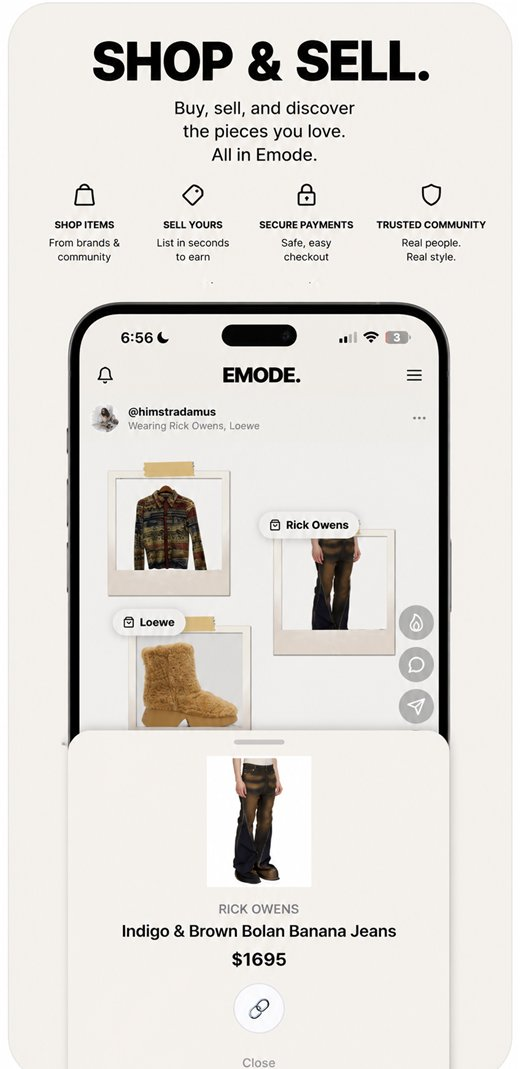
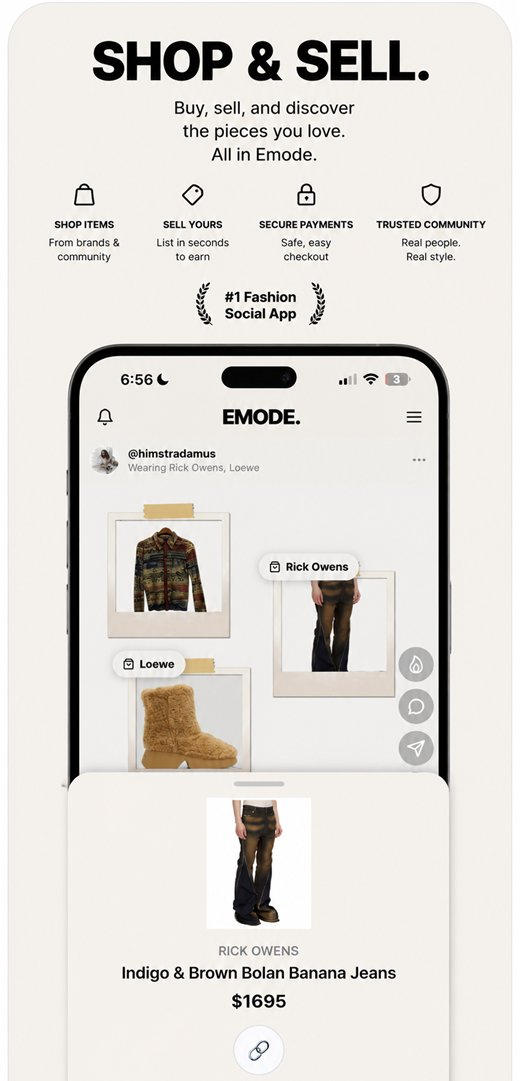
fix: badge restored, screens one height, tilt and hover back, no white hairline
Badge back in. The reading that "#1" claims being first to do this rather than
biggest is the author's call, and the images are used as supplied - which also
removes the laurel remnants, since there is no longer any surgery to leave them.

Height fixed at the source rather than by cropping around a cut. Three screens
scale to 1124px at a common width and one to 1081, because the sources differ in
aspect. All four now render at 520x1081, top-anchored, so the trim comes off the
phone bezel rather than a headline.

The white hairline is gone. These are already cards on a cream ground, so a
border around each read as a rendering artefact rather than a frame; depth comes
from the shadow.

Tilt and hover restored - alternating rotations that straighten and lift on
hover, with vertical padding on the scroller so the rotated corners are not
clipped by it.

diff --git a/apps/web/components/ConsumerApp.tsx b/apps/web/components/ConsumerApp.tsx
@@ -16,10 +16,10 @@ import { Sparkles, Users, Tag, Scissors, ArrowRight, Check } from 'lucide-react'
  */
 
 const SCREENS = [
-    { src: '/app/01-feed.jpg', alt: 'The emode feed: an outfit post tagged with the brands worn' },
-    { src: '/app/02-tryon.jpg', alt: 'AI try-on: two secondhand items rendered onto a person as one outfit' },
-    { src: '/app/03-shop.jpg', alt: 'Tapping a post reveals the exact pieces in it, with prices and links' },
-    { src: '/app/04-sell.jpg', alt: 'A profile selling listings directly, with sizes, condition and prices' },
+    { src: '/app/01-feed.jpg', alt: 'The emode feed: an outfit post tagged with the brands worn', tilt: '-rotate-2' },
+    { src: '/app/02-tryon.jpg', alt: 'AI try-on: two secondhand items rendered onto a person as one outfit', tilt: 'rotate-1' },
+    { src: '/app/03-shop.jpg', alt: 'Tapping a post reveals the exact pieces in it, with prices and links', tilt: '-rotate-1' },
+    { src: '/app/04-sell.jpg', alt: 'A profile selling listings directly, with sizes, condition and prices', tilt: 'rotate-2' },
 ];
 
 const PILLARS = [
@@ -131,11 +131,13 @@ export function ConsumerApp() {
                     and describing it in prose to someone who has not seen it asks
                     them to take the whole thing on faith.
 
-                    No captions here: these carry their own headlines, and a second
-                    label underneath would either repeat them or argue with them.
-                    Horizontal scroll on narrow screens rather than a 4-up grid
-                    that crushes each phone to a thumbnail. */}
-                <div className="-mx-6 px-6 mb-20 overflow-x-auto">
+                    No border: these are already cards on a cream ground, and a
+                    white hairline around each one reads as a rendering artefact
+                    rather than a frame. Depth comes from the shadow.
+
+                    Tilted, and straightening on hover. Vertical padding on the
+                    scroller so the rotated corners are not clipped by it. */}
+                <div className="-mx-6 px-6 py-6 mb-16 overflow-x-auto">
                     <div className="flex gap-5 min-w-max sm:min-w-0 sm:grid sm:grid-cols-2 lg:grid-cols-4">
                         {SCREENS.map((s) => (
                             /* eslint-disable-next-line @next/next/no-img-element */
@@ -144,7 +146,7 @@ export function ConsumerApp() {
                                 src={s.src}
                                 alt={s.alt}
                                 loading="lazy"
-                                className="w-64 sm:w-full rounded-2xl border border-white/10 shadow-2xl"
+                                className={`w-64 sm:w-full rounded-2xl shadow-2xl transition-transform duration-500 ease-out hover:rotate-0 hover:scale-[1.03] ${s.tilt}`}
                             />
                         ))}
                     </div>
